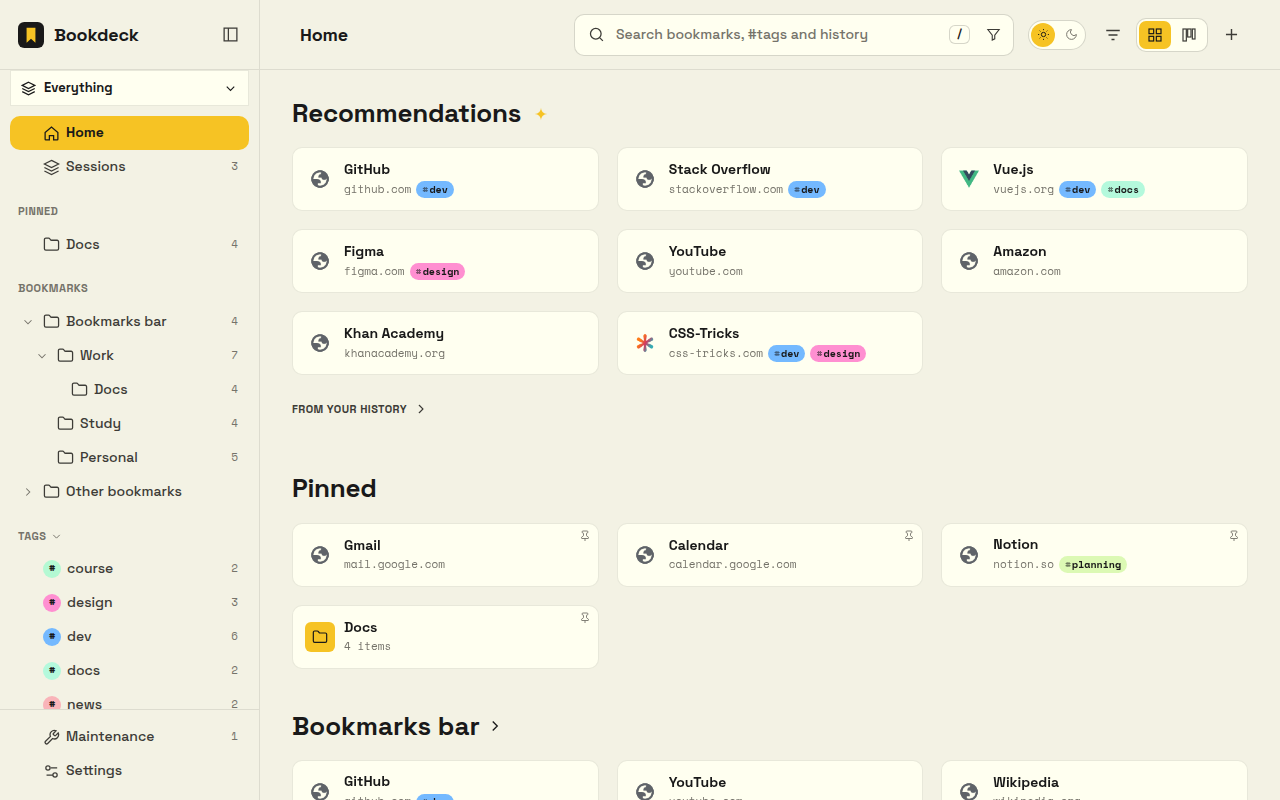
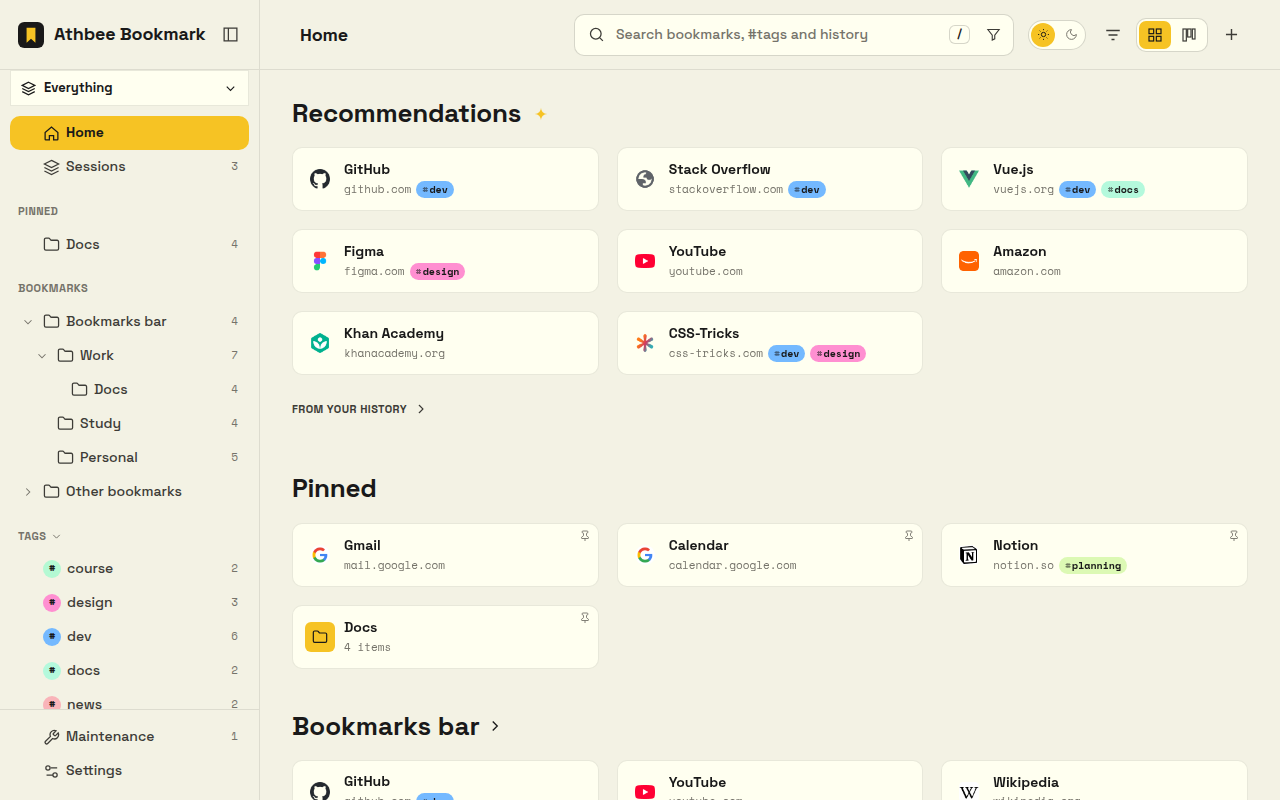
Rename to Athbee Bookmark and link to the source code
New name across all pages, fresh screenshots, privacy policy synced with
the extension (ExtPay content script, contact email), a source-code link
in the footer, and the logo wrapping cleanly on phones.

Claude-Session: https://claude.ai/code/session_01LuE7BvKGd75Ws2D3ZHVvKB

diff --git a/privacy.html b/privacy.html
@@ -3,14 +3,14 @@
 <head>
 <meta charset="utf-8">
 <meta name="viewport" content="width=device-width, initial-scale=1">
-<title>Bookdeck – Privacy policy</title>
+<title>Athbee Bookmark – Privacy policy</title>
 <link rel="icon" href="img/icon-128.png">
 <link rel="stylesheet" href="style.css">
 <script src="lang.js"></script>
 </head>
 <body>
 <header class="wrap top">
-  <a class="brand" href="./"><img src="img/icon-128.png" alt="">Bookdeck</a>
+  <a class="brand" href="./"><img src="img/icon-128.png" alt="">Athbee Bookmark</a>
   <nav class="nav">
     <a href="./#pricing"><span lang="en">Pricing</span><span lang="pt">Preços</span></a>
     <span class="lang"><button data-set-lang="en">EN</button><button data-set-lang="pt">PT</button></span>
@@ -18,33 +18,33 @@
 </header>
 <main class="wrap">
 <article class="doc" lang="en">
-<h1>Bookdeck – Privacy Policy</h1>
+<h1>Athbee Bookmark – Privacy Policy</h1>
 <p><em>Last updated: November 12, 2026</em></p>
-<p><strong>Short version: Bookdeck does not collect, send or sell your bookmarks, history or any other browsing data. They stay in your browser. The only thing Bookdeck checks online is whether you have a Bookdeck Pro license.</strong></p>
-<h2>What Bookdeck accesses</h2>
+<p><strong>Short version: Athbee Bookmark does not collect, send or sell your bookmarks, history or any other browsing data. They stay in your browser. The only thing Athbee Bookmark checks online is whether you have a Athbee Bookmark Pro license.</strong></p>
+<h2>What Athbee Bookmark accesses</h2>
 <p>To work, the extension reads and changes data <strong>inside your browser only</strong>:</p>
 <ul>
 <li><strong>Bookmarks</strong>: to show, search, organize, move and delete them.</li>
-<li><strong>Browsing history</strong>: to suggest the bookmarks and pages you use most, include history in search results, and find bookmarks you haven&#x27;t opened in a long time. Bookdeck keeps the date of the last visit of each <em>bookmarked</em> page so this keeps working beyond the browser&#x27;s own history window. It does not keep any other history.</li>
+<li><strong>Browsing history</strong>: to suggest the bookmarks and pages you use most, include history in search results, and find bookmarks you haven&#x27;t opened in a long time. Athbee Bookmark keeps the date of the last visit of each <em>bookmarked</em> page so this keeps working beyond the browser&#x27;s own history window. It does not keep any other history.</li>
 <li><strong>Open tabs and tab groups</strong>: only when you open bookmarks, save the current page from the toolbar button, or save and reopen a session.</li>
-<li><strong>Web search</strong>: when you choose “Search the web” in the search box, the text you typed is sent to your browser&#x27;s default search engine, just like a regular search. Bookdeck doesn&#x27;t send it anywhere else.</li>
-<li><strong>Website access (optional)</strong>: only if you start a broken-link check and allow it. Bookdeck then makes one request to each bookmarked address to see whether it still works. Requests are sent without cookies, and only the HTTP status and final address are read. Nothing is sent to anyone other than the sites you bookmarked.</li>
+<li><strong>Web search</strong>: when you choose “Search the web” in the search box, the text you typed is sent to your browser&#x27;s default search engine, just like a regular search. Athbee Bookmark doesn&#x27;t send it anywhere else.</li>
+<li><strong>Website access (optional)</strong>: only if you start a broken-link check and allow it. Athbee Bookmark then makes one request to each bookmarked address to see whether it still works. Requests are sent without cookies, and only the HTTP status and final address are read. Nothing is sent to anyone other than the sites you bookmarked.</li>
 </ul>
-<h2>Bookdeck Pro (paid plan)</h2>
-<p>Bookdeck is free, with an optional one-time payment (Bookdeck Pro) that unlocks extra features. Payments and licenses are handled by <strong>ExtensionPay</strong> (extensionpay.com), which processes payments through <strong>Stripe</strong>.</p>
+<h2>Athbee Bookmark Pro (paid plan)</h2>
+<p>Athbee Bookmark is free, with an optional one-time payment (Athbee Bookmark Pro) that unlocks extra features. Payments and licenses are handled by <strong>ExtensionPay</strong> (extensionpay.com), which processes payments through <strong>Stripe</strong>.</p>
 <ul>
-<li><strong>When you pay</strong>, you enter your email and payment details on ExtensionPay&#x27;s and Stripe&#x27;s own pages. Bookdeck never sees or stores your card details.</li>
+<li><strong>When you pay</strong>, you enter your email and payment details on ExtensionPay&#x27;s and Stripe&#x27;s own pages. Athbee Bookmark never sees or stores your card details.</li>
 <li><strong>Nothing is sent before you open the payment or restore page.</strong> At that moment ExtensionPay creates a random identifier for your installation, kept in your browser&#x27;s sync storage. From then on the extension asks extensionpay.com, at most a few times a day, whether this identifier has paid; the reply only says yes or no. If you buy Pro, ExtensionPay links the identifier to the email you paid with, so you can restore Pro on another computer.</li>
 <li><strong>On extensionpay.com pages only</strong>, a small script from the extension tells it when a payment has just gone through. It doesn&#x27;t run on any other site.</li>
 <li><strong>Nothing else is sent</strong>: no bookmarks, history, tags, sessions, settings or pages you visit.</li>
 </ul>
 <p>ExtensionPay&#x27;s privacy policy: <a href="https://extensionpay.com/privacy">https://extensionpay.com/privacy</a>. Stripe&#x27;s: <a href="https://stripe.com/privacy">https://stripe.com/privacy</a>.</p>
 <h2>Where your data is stored</h2>
-<p>Settings, tags, pinned and hidden items, workspaces, sessions, last-visit dates and your Pro license status are saved in the browser&#x27;s local extension storage on your computer. Bookdeck has no server of its own.</p>
-<p><strong>Sync (Pro, off by default)</strong>: if you turn on “Sync across computers”, your tags, pinned and hidden items, tag colors, workspaces, sessions and settings are stored in the browser&#x27;s own sync storage, which travels with <strong>your Google account</strong> (or your browser&#x27;s sync account) like the rest of your browser data. They identify bookmarks by their address. Bookdeck has no access to that account and no copy of this data.</p>
-<p><strong>Automatic backups (Pro, off by default)</strong>: Bookdeck saves a backup file to the <code>Bookdeck</code> folder in your Downloads, daily or weekly, and deletes the oldest ones beyond the number you chose. The files never leave your computer.</p>
+<p>Settings, tags, pinned and hidden items, workspaces, sessions, last-visit dates and your Pro license status are saved in the browser&#x27;s local extension storage on your computer. Athbee Bookmark has no server of its own.</p>
+<p><strong>Sync (Pro, off by default)</strong>: if you turn on “Sync across computers”, your tags, pinned and hidden items, tag colors, workspaces, sessions and settings are stored in the browser&#x27;s own sync storage, which travels with <strong>your Google account</strong> (or your browser&#x27;s sync account) like the rest of your browser data. They identify bookmarks by their address. Athbee Bookmark has no access to that account and no copy of this data.</p>
+<p><strong>Automatic backups (Pro, off by default)</strong>: Athbee Bookmark saves a backup file to the <code>Athbee Bookmark</code> folder in your Downloads, daily or weekly, and deletes the oldest ones beyond the number you chose. The files never leave your computer.</p>
 <p>When you export a backup, a <code>.json</code> file is saved where you choose. It contains your bookmarks, tags, sessions, settings and last-visit dates; keep it somewhere safe.</p>
-<h2>What Bookdeck does not do</h2>
+<h2>What Athbee Bookmark does not do</h2>
 <ul>
 <li>No analytics, tracking or advertising.</li>
 <li>No data is sold. Nothing is shared with third parties except what the payment provider needs to process a Pro purchase and check the license, as described above.</li>
@@ -58,33 +58,33 @@
 <p>Questions: <a href="mailto:eduardorosa.drd@gmail.com">eduardorosa.drd@gmail.com</a>.</p>
 </article>
 <article class="doc" lang="pt">
-<h1>Bookdeck – Política de Privacidade</h1>
+<h1>Athbee Bookmark – Política de Privacidade</h1>
 <p><em>Atualizada em 12 de novembro de 2026</em></p>
-<p><strong>Resumo: o Bookdeck não coleta, não envia e não vende seus favoritos, seu histórico nem nenhum outro dado de navegação. Eles ficam no seu navegador. A única coisa que o Bookdeck consulta pela internet é se você tem uma licença do Bookdeck Pro.</strong></p>
-<h2>O que o Bookdeck acessa</h2>
+<p><strong>Resumo: o Athbee Bookmark não coleta, não envia e não vende seus favoritos, seu histórico nem nenhum outro dado de navegação. Eles ficam no seu navegador. A única coisa que o Athbee Bookmark consulta pela internet é se você tem uma licença do Athbee Bookmark Pro.</strong></p>
+<h2>O que o Athbee Bookmark acessa</h2>
 <p>Para funcionar, a extensão lê e altera dados <strong>somente dentro do seu navegador</strong>:</p>
 <ul>
 <li><strong>Favoritos</strong>: para mostrar, buscar, organizar, mover e excluir.</li>
-<li><strong>Histórico</strong>: para sugerir os favoritos e páginas que você mais usa, incluir o histórico na busca e encontrar favoritos que você não abre há muito tempo. O Bookdeck guarda a data da última visita de cada página <em>que está nos favoritos</em>, para isso continuar funcionando além do período que o navegador guarda. Nenhum outro histórico é guardado.</li>
+<li><strong>Histórico</strong>: para sugerir os favoritos e páginas que você mais usa, incluir o histórico na busca e encontrar favoritos que você não abre há muito tempo. O Athbee Bookmark guarda a data da última visita de cada página <em>que está nos favoritos</em>, para isso continuar funcionando além do período que o navegador guarda. Nenhum outro histórico é guardado.</li>
 <li><strong>Abas e grupos de abas</strong>: só quando você abre favoritos, salva a página atual pelo botão da barra ou salva e reabre uma sessão.</li>
-<li><strong>Pesquisa na web</strong>: quando você escolhe “Pesquisar na web” na caixa de busca, o texto digitado vai para o mecanismo de busca padrão do seu navegador, como numa busca normal. O Bookdeck não o envia para nenhum outro lugar.</li>
-<li><strong>Acesso a sites (opcional)</strong>: só se você iniciar uma verificação de links quebrados e permitir. O Bookdeck faz uma requisição a cada endereço salvo para ver se ainda funciona, sem enviar cookies, lendo apenas o código HTTP e o endereço final. Nada é enviado a ninguém além dos próprios sites que você salvou.</li>
+<li><strong>Pesquisa na web</strong>: quando você escolhe “Pesquisar na web” na caixa de busca, o texto digitado vai para o mecanismo de busca padrão do seu navegador, como numa busca normal. O Athbee Bookmark não o envia para nenhum outro lugar.</li>
+<li><strong>Acesso a sites (opcional)</strong>: só se você iniciar uma verificação de links quebrados e permitir. O Athbee Bookmark faz uma requisição a cada endereço salvo para ver se ainda funciona, sem enviar cookies, lendo apenas o código HTTP e o endereço final. Nada é enviado a ninguém além dos próprios sites que você salvou.</li>
 </ul>
-<h2>Bookdeck Pro (plano pago)</h2>
-<p>O Bookdeck é grátis, com um pagamento único opcional (Bookdeck Pro) que libera recursos extras. Pagamentos e licenças ficam a cargo do <strong>ExtensionPay</strong> (extensionpay.com), que processa os pagamentos pelo <strong>Stripe</strong>.</p>
+<h2>Athbee Bookmark Pro (plano pago)</h2>
+<p>O Athbee Bookmark é grátis, com um pagamento único opcional (Athbee Bookmark Pro) que libera recursos extras. Pagamentos e licenças ficam a cargo do <strong>ExtensionPay</strong> (extensionpay.com), que processa os pagamentos pelo <strong>Stripe</strong>.</p>
 <ul>
-<li><strong>Ao pagar</strong>, você informa seu e-mail e os dados de pagamento nas páginas do próprio ExtensionPay e do Stripe. O Bookdeck nunca vê nem guarda os dados do seu cartão.</li>
+<li><strong>Ao pagar</strong>, você informa seu e-mail e os dados de pagamento nas páginas do próprio ExtensionPay e do Stripe. O Athbee Bookmark nunca vê nem guarda os dados do seu cartão.</li>
 <li><strong>Nada é enviado antes de você abrir a página de pagamento ou de recuperação.</strong> Nesse momento o ExtensionPay cria um identificador aleatório para a sua instalação, guardado no armazenamento de sincronização do navegador. A partir daí a extensão pergunta ao extensionpay.com, no máximo algumas vezes por dia, se esse identificador pagou; a resposta diz apenas sim ou não. Se você comprar o Pro, o ExtensionPay associa o identificador ao e-mail usado no pagamento, para você poder recuperar o Pro em outro computador.</li>
 <li><strong>Só nas páginas do extensionpay.com</strong>, um pequeno script da extensão avisa quando um pagamento acabou de ser concluído. Ele não roda em nenhum outro site.</li>
 <li><strong>Nada mais é enviado</strong>: nenhum favorito, histórico, tag, sessão, configuração ou página visitada.</li>
 </ul>
 <p>Política de privacidade do ExtensionPay: <a href="https://extensionpay.com/privacy">https://extensionpay.com/privacy</a>. Do Stripe: <a href="https://stripe.com/privacy">https://stripe.com/privacy</a>.</p>
 <h2>Onde seus dados ficam</h2>
-<p>Configurações, tags, fixados, ocultos, workspaces, sessões, datas de visita e o status da sua licença Pro ficam no armazenamento local da extensão, no seu computador. O Bookdeck não tem servidor próprio.</p>
-<p><strong>Sincronização (Pro, desligada por padrão)</strong>: se você ligar “Sincronizar entre computadores”, suas tags, fixados, ocultos, cores de tags, workspaces, sessões e configurações vão para o armazenamento de sincronização do próprio navegador, que acompanha <strong>a sua conta Google</strong> (ou a conta de sincronização do seu navegador), como o restante dos dados do navegador. Os favoritos são identificados pelo endereço. O Bookdeck não tem acesso a essa conta nem cópia desses dados.</p>
-<p><strong>Backup automático (Pro, desligado por padrão)</strong>: o Bookdeck salva um arquivo de backup na pasta <code>Bookdeck</code> dos seus Downloads, todo dia ou toda semana, e apaga os mais antigos além da quantidade escolhida. Os arquivos nunca saem do seu computador.</p>
+<p>Configurações, tags, fixados, ocultos, workspaces, sessões, datas de visita e o status da sua licença Pro ficam no armazenamento local da extensão, no seu computador. O Athbee Bookmark não tem servidor próprio.</p>
+<p><strong>Sincronização (Pro, desligada por padrão)</strong>: se você ligar “Sincronizar entre computadores”, suas tags, fixados, ocultos, cores de tags, workspaces, sessões e configurações vão para o armazenamento de sincronização do próprio navegador, que acompanha <strong>a sua conta Google</strong> (ou a conta de sincronização do seu navegador), como o restante dos dados do navegador. Os favoritos são identificados pelo endereço. O Athbee Bookmark não tem acesso a essa conta nem cópia desses dados.</p>
+<p><strong>Backup automático (Pro, desligado por padrão)</strong>: o Athbee Bookmark salva um arquivo de backup na pasta <code>Athbee Bookmark</code> dos seus Downloads, todo dia ou toda semana, e apaga os mais antigos além da quantidade escolhida. Os arquivos nunca saem do seu computador.</p>
 <p>Ao exportar um backup, um arquivo <code>.json</code> é salvo onde você escolher. Ele contém favoritos, tags, sessões, configurações e datas de visita; guarde-o em lugar seguro.</p>
-<h2>O que o Bookdeck não faz</h2>
+<h2>O que o Athbee Bookmark não faz</h2>
 <ul>
 <li>Nada de estatísticas de uso, rastreamento ou anúncios.</li>
 <li>Nenhum dado é vendido. Nada é compartilhado com terceiros além do que o processador de pagamento precisa para concluir uma compra do Pro e verificar a licença, como descrito acima.</li>
@@ -100,10 +100,11 @@
 </main>
 <footer>
   <div class="wrap">
-    <span>© 2026 Bookdeck</span>
+    <span>© 2026 Athbee Bookmark</span>
     <nav>
-      <a href="./">Bookdeck</a>
+      <a href="./">Athbee Bookmark</a>
       <a href="terms.html"><span lang="en">Terms &amp; refunds</span><span lang="pt">Termos e reembolso</span></a>
+      <a href="https://github.com/erdodrddev-stack/athbee-bookmark-extension"><span lang="en">Source code</span><span lang="pt">Código-fonte</span></a>
       <a href="mailto:eduardorosa.drd@gmail.com">eduardorosa.drd@gmail.com</a>
     </nav>
   </div>

diff --git a/terms.html b/terms.html
@@ -3,14 +3,14 @@
 <head>
 <meta charset="utf-8">
 <meta name="viewport" content="width=device-width, initial-scale=1">
-<title>Bookdeck – Terms and refunds</title>
+<title>Athbee Bookmark – Terms and refunds</title>
 <link rel="icon" href="img/icon-128.png">
 <link rel="stylesheet" href="style.css">
 <script src="lang.js"></script>
 </head>
 <body>
 <header class="wrap top">
-  <a class="brand" href="./"><img src="img/icon-128.png" alt="">Bookdeck</a>
+  <a class="brand" href="./"><img src="img/icon-128.png" alt="">Athbee Bookmark</a>
   <nav class="nav">
     <a href="./#pricing"><span lang="en">Pricing</span><span lang="pt">Preços</span></a>
     <span class="lang"><button data-set-lang="en">EN</button><button data-set-lang="pt">PT</button></span>
@@ -23,25 +23,25 @@
     <p><em>Last updated: November 12, 2026</em></p>
 
     <h2>Who we are</h2>
-    <p>Bookdeck is a browser extension made and sold by an independent developer based in Brazil. Contact: <a href="mailto:eduardorosa.drd@gmail.com">eduardorosa.drd@gmail.com</a>.</p>
+    <p>Athbee Bookmark is a browser extension made and sold by an independent developer based in Brazil. Contact: <a href="mailto:eduardorosa.drd@gmail.com">eduardorosa.drd@gmail.com</a>.</p>
 
     <h2>The product</h2>
-    <p>Bookdeck is free to install and use. <strong>Bookdeck Pro</strong> is an optional upgrade sold inside the extension for a <strong>one-time payment of US$ 12</strong> (plus any taxes required where you live). It unlocks the Pro features listed on the <a href="./#pricing">pricing section</a> for the life of the product, with no subscription and no renewals.</p>
+    <p>Athbee Bookmark is free to install and use. <strong>Athbee Bookmark Pro</strong> is an optional upgrade sold inside the extension for a <strong>one-time payment of US$ 12</strong> (plus any taxes required where you live). It unlocks the Pro features listed on the <a href="./#pricing">pricing section</a> for the life of the product, with no subscription and no renewals.</p>
 
     <h2>Payment</h2>
     <p>Payments are processed by Stripe through ExtensionPay (extensionpay.com). We never see or store your card details. Your purchase is linked to the email you pay with, which lets you restore Pro on another computer or after reinstalling, from the “Restore Pro by email” link in the extension.</p>
 
     <h2 id="refunds">Refunds</h2>
-    <p>If Bookdeck Pro isn't right for you, email <a href="mailto:eduardorosa.drd@gmail.com">eduardorosa.drd@gmail.com</a> within <strong>14 days of purchase</strong> with the email you paid with, and you'll get a <strong>full refund, no questions asked</strong>. Refunds go back to the original payment method through Stripe, usually within 5–10 business days depending on your bank. Once refunded, Pro features turn off; the free features and all your data stay as they are.</p>
+    <p>If Athbee Bookmark Pro isn't right for you, email <a href="mailto:eduardorosa.drd@gmail.com">eduardorosa.drd@gmail.com</a> within <strong>14 days of purchase</strong> with the email you paid with, and you'll get a <strong>full refund, no questions asked</strong>. Refunds go back to the original payment method through Stripe, usually within 5–10 business days depending on your bank. Once refunded, Pro features turn off; the free features and all your data stay as they are.</p>
 
     <h2>Use of the extension</h2>
-    <p>You may use Bookdeck on any computer and browser profile you own. Please don't resell Pro licenses or try to get around the purchase check.</p>
+    <p>You may use Athbee Bookmark on any computer and browser profile you own. Please don't resell Pro licenses or try to get around the purchase check.</p>
 
     <h2>Your data</h2>
     <p>Your bookmarks, history, tags and sessions stay in your browser. See the <a href="privacy.html">privacy policy</a> for exactly what is accessed and when anything leaves your computer.</p>
 
     <h2>Availability and changes</h2>
-    <p>We work to keep Bookdeck working on current versions of Chrome, Brave and Edge, but it is provided “as is”, without warranties. Keep backups of anything important (Bookdeck can make them for you). These terms may be updated; the new version will be published on this page with a new date.</p>
+    <p>We work to keep Athbee Bookmark working on current versions of Chrome, Brave and Edge, but it is provided “as is”, without warranties. Keep backups of anything important (Athbee Bookmark can make them for you). These terms may be updated; the new version will be published on this page with a new date.</p>
 
     <h2>Law</h2>
     <p>These terms are governed by the laws of Brazil, without limiting any consumer rights you have where you live.</p>
@@ -52,25 +52,25 @@
     <p><em>Atualizados em 12 de novembro de 2026</em></p>
 
     <h2>Quem somos</h2>
-    <p>O Bookdeck é uma extensão de navegador feita e vendida por um desenvolvedor independente no Brasil. Contato: <a href="mailto:eduardorosa.drd@gmail.com">eduardorosa.drd@gmail.com</a>.</p>
+    <p>O Athbee Bookmark é uma extensão de navegador feita e vendida por um desenvolvedor independente no Brasil. Contato: <a href="mailto:eduardorosa.drd@gmail.com">eduardorosa.drd@gmail.com</a>.</p>
 
     <h2>O produto</h2>
-    <p>O Bookdeck é grátis para instalar e usar. O <strong>Bookdeck Pro</strong> é uma melhoria opcional vendida dentro da extensão por um <strong>pagamento único de US$ 12</strong> (mais impostos exigidos onde você mora). Ele libera os recursos Pro listados na <a href="./#pricing">seção de preços</a> por toda a vida do produto, sem assinatura e sem renovação.</p>
+    <p>O Athbee Bookmark é grátis para instalar e usar. O <strong>Athbee Bookmark Pro</strong> é uma melhoria opcional vendida dentro da extensão por um <strong>pagamento único de US$ 12</strong> (mais impostos exigidos onde você mora). Ele libera os recursos Pro listados na <a href="./#pricing">seção de preços</a> por toda a vida do produto, sem assinatura e sem renovação.</p>
 
     <h2>Pagamento</h2>
     <p>Os pagamentos são processados pelo Stripe, via ExtensionPay (extensionpay.com). Nunca vemos nem guardamos os dados do seu cartão. A compra fica associada ao e-mail usado no pagamento, o que permite recuperar o Pro em outro computador ou depois de reinstalar, pelo link “Recuperar o Pro pelo e-mail” na extensão.</p>
 
     <h2 id="refunds-pt">Reembolso</h2>
-    <p>Se o Bookdeck Pro não for o que você esperava, escreva para <a href="mailto:eduardorosa.drd@gmail.com">eduardorosa.drd@gmail.com</a> em até <strong>14 dias da compra</strong>, informando o e-mail usado no pagamento, e você recebe o <strong>reembolso integral, sem perguntas</strong>. O valor volta para a forma de pagamento original pelo Stripe, normalmente em 5 a 10 dias úteis, conforme o banco. Depois do reembolso, os recursos Pro são desligados; os recursos grátis e todos os seus dados continuam como estão.</p>
+    <p>Se o Athbee Bookmark Pro não for o que você esperava, escreva para <a href="mailto:eduardorosa.drd@gmail.com">eduardorosa.drd@gmail.com</a> em até <strong>14 dias da compra</strong>, informando o e-mail usado no pagamento, e você recebe o <strong>reembolso integral, sem perguntas</strong>. O valor volta para a forma de pagamento original pelo Stripe, normalmente em 5 a 10 dias úteis, conforme o banco. Depois do reembolso, os recursos Pro são desligados; os recursos grátis e todos os seus dados continuam como estão.</p>
 
     <h2>Uso da extensão</h2>
-    <p>Você pode usar o Bookdeck em qualquer computador e perfil de navegador seu. Não revenda licenças Pro nem tente burlar a verificação da compra.</p>
+    <p>Você pode usar o Athbee Bookmark em qualquer computador e perfil de navegador seu. Não revenda licenças Pro nem tente burlar a verificação da compra.</p>
 
     <h2>Seus dados</h2>
     <p>Seus favoritos, histórico, tags e sessões ficam no seu navegador. Veja a <a href="privacy.html">política de privacidade</a> para saber exatamente o que é acessado e quando algo sai do seu computador.</p>
 
     <h2>Disponibilidade e mudanças</h2>
-    <p>Trabalhamos para manter o Bookdeck funcionando nas versões atuais do Chrome, Brave e Edge, mas ele é fornecido “no estado em que se encontra”, sem garantias. Mantenha backups do que for importante (o Bookdeck pode fazê-los por você). Estes termos podem ser atualizados; a nova versão será publicada nesta página, com nova data.</p>
+    <p>Trabalhamos para manter o Athbee Bookmark funcionando nas versões atuais do Chrome, Brave e Edge, mas ele é fornecido “no estado em que se encontra”, sem garantias. Mantenha backups do que for importante (o Athbee Bookmark pode fazê-los por você). Estes termos podem ser atualizados; a nova versão será publicada nesta página, com nova data.</p>
 
     <h2>Lei aplicável</h2>
     <p>Estes termos seguem as leis do Brasil, sem limitar os direitos de consumidor que você tenha onde mora, incluindo os do Código de Defesa do Consumidor.</p>
@@ -79,10 +79,11 @@
 
 <footer>
   <div class="wrap">
-    <span>© 2026 Bookdeck</span>
+    <span>© 2026 Athbee Bookmark</span>
     <nav>
-      <a href="./">Bookdeck</a>
+      <a href="./">Athbee Bookmark</a>
       <a href="privacy.html"><span lang="en">Privacy</span><span lang="pt">Privacidade</span></a>
+      <a href="https://github.com/erdodrddev-stack/athbee-bookmark-extension"><span lang="en">Source code</span><span lang="pt">Código-fonte</span></a>
       <a href="mailto:eduardorosa.drd@gmail.com">eduardorosa.drd@gmail.com</a>
     </nav>
   </div>

diff --git a/index.html b/index.html
@@ -3,15 +3,15 @@
 <head>
 <meta charset="utf-8">
 <meta name="viewport" content="width=device-width, initial-scale=1">
-<title>Bookdeck – your bookmarks, organized</title>
-<meta name="description" content="Bookdeck is a browser extension that turns the new tab into a dashboard for your bookmarks: tags, workspaces, tab sessions, broken links and duplicates. Free, with an optional US$ 12 one-time Pro upgrade.">
+<title>Athbee Bookmark – your bookmarks, organized</title>
+<meta name="description" content="Athbee Bookmark is a browser extension that turns the new tab into a dashboard for your bookmarks: tags, workspaces, tab sessions, broken links and duplicates. Free, with an optional US$ 12 one-time Pro upgrade.">
 <link rel="icon" href="img/icon-128.png">
 <link rel="stylesheet" href="style.css">
 <script src="lang.js"></script>
 </head>
 <body>
 <header class="wrap top">
-  <a class="brand" href="./"><img src="img/icon-128.png" alt="">Bookdeck</a>
+  <a class="brand" href="./"><img src="img/icon-128.png" alt="">Athbee Bookmark</a>
   <nav class="nav">
     <a class="hide-sm" href="#features"><span lang="en">Features</span><span lang="pt">Recursos</span></a>
     <a href="#pricing"><span lang="en">Pricing</span><span lang="pt">Preços</span></a>
@@ -25,14 +25,14 @@
     <div>
       <h1 lang="en">Your bookmarks, organized.</h1>
       <h1 lang="pt">Seus favoritos, organizados.</h1>
-      <p class="lead" lang="en">Bookdeck is a browser extension for Chrome, Brave and Edge that turns every new tab into a dashboard for your bookmarks. Nothing you save ever leaves your browser.</p>
-      <p class="lead" lang="pt">O Bookdeck é uma extensão para Chrome, Brave e Edge que transforma cada nova guia num painel dos seus favoritos. Nada do que você salva sai do navegador.</p>
+      <p class="lead" lang="en">Athbee Bookmark is a browser extension for Chrome, Brave and Edge that turns every new tab into a dashboard for your bookmarks. Nothing you save ever leaves your browser.</p>
+      <p class="lead" lang="pt">O Athbee Bookmark é uma extensão para Chrome, Brave e Edge que transforma cada nova guia num painel dos seus favoritos. Nada do que você salva sai do navegador.</p>
       <div class="cta">
         <a class="btn" aria-disabled="true"><span lang="en">Chrome Web Store: coming soon</span><span lang="pt">Chrome Web Store: em breve</span></a>
         <a class="btn ghost" href="#pricing"><span lang="en">Free · Pro US$ 12 once</span><span lang="pt">Grátis · Pro US$ 12 uma vez</span></a>
       </div>
     </div>
-    <img class="shot" src="img/home.png" width="1280" height="800" alt="Bookdeck new tab with suggestions, pinned bookmarks and folders">
+    <img class="shot" src="img/home.png" width="1280" height="800" alt="Athbee Bookmark new tab with suggestions, pinned bookmarks and folders">
   </div>
 
   <section id="features">
@@ -63,8 +63,8 @@
       <img class="shot" src="img/workspaces.png" width="1280" height="800" alt="Workspaces in dark mode, columns layout">
       <div>
         <h2><span lang="en">Private by design</span><span lang="pt">Privado de verdade</span></h2>
-        <p lang="en">No account to create, no ads, no tracking. Bookmarks, history, tags and sessions stay in your browser. The only thing Bookdeck checks online is whether you bought Pro. Read the <a href="privacy.html">privacy policy</a>.</p>
-        <p lang="pt">Sem criar conta, sem anúncios, sem rastreamento. Favoritos, histórico, tags e sessões ficam no seu navegador. A única coisa que o Bookdeck consulta pela internet é se você comprou o Pro. Leia a <a href="privacy.html">política de privacidade</a>.</p>
+        <p lang="en">No account to create, no ads, no tracking. Bookmarks, history, tags and sessions stay in your browser. The only thing Athbee Bookmark checks online is whether you bought Pro. Read the <a href="privacy.html">privacy policy</a>.</p>
+        <p lang="pt">Sem criar conta, sem anúncios, sem rastreamento. Favoritos, histórico, tags e sessões ficam no seu navegador. A única coisa que o Athbee Bookmark consulta pela internet é se você comprou o Pro. Leia a <a href="privacy.html">política de privacidade</a>.</p>
       </div>
     </div>
   </section>
@@ -92,7 +92,7 @@
           </ul>
         </div>
         <div class="plan pro">
-          <h3>Bookdeck Pro</h3>
+          <h3>Athbee Bookmark Pro</h3>
           <div class="price">US$ 12<small lang="en">one-time</small><small lang="pt">pagamento único</small></div>
           <ul lang="en">
             <li>Sync tags, workspaces, sessions and settings across computers</li>
@@ -121,8 +121,8 @@
     <div class="wrap split">
       <div>
         <h2><span lang="en">Contact</span><span lang="pt">Contato</span></h2>
-        <p lang="en">Questions, support or refunds: <a href="mailto:eduardorosa.drd@gmail.com">eduardorosa.drd@gmail.com</a>. Bookdeck is made by an independent developer in Brazil; replies usually within 2 business days.</p>
-        <p lang="pt">Dúvidas, suporte ou reembolsos: <a href="mailto:eduardorosa.drd@gmail.com">eduardorosa.drd@gmail.com</a>. O Bookdeck é feito por um desenvolvedor independente no Brasil; respostas geralmente em até 2 dias úteis.</p>
+        <p lang="en">Questions, support or refunds: <a href="mailto:eduardorosa.drd@gmail.com">eduardorosa.drd@gmail.com</a>. Athbee Bookmark is made by an independent developer in Brazil; replies usually within 2 business days.</p>
+        <p lang="pt">Dúvidas, suporte ou reembolsos: <a href="mailto:eduardorosa.drd@gmail.com">eduardorosa.drd@gmail.com</a>. O Athbee Bookmark é feito por um desenvolvedor independente no Brasil; respostas geralmente em até 2 dias úteis.</p>
       </div>
       <img class="shot" src="img/maintenance.png" width="1280" height="800" alt="Broken-link check in the maintenance panel">
     </div>
@@ -131,10 +131,11 @@
 
 <footer>
   <div class="wrap">
-    <span>© 2026 Bookdeck</span>
+    <span>© 2026 Athbee Bookmark</span>
     <nav>
       <a href="terms.html"><span lang="en">Terms &amp; refunds</span><span lang="pt">Termos e reembolso</span></a>
       <a href="privacy.html"><span lang="en">Privacy</span><span lang="pt">Privacidade</span></a>
+      <a href="https://github.com/erdodrddev-stack/athbee-bookmark-extension"><span lang="en">Source code</span><span lang="pt">Código-fonte</span></a>
       <a href="mailto:eduardorosa.drd@gmail.com">eduardorosa.drd@gmail.com</a>
     </nav>
   </div>

diff --git a/style.css b/style.css
@@ -31,7 +31,7 @@ html[data-lang='en'] [lang='pt'], html[data-lang='pt'] [lang='en'] { display: no
 
 /* header */
 .top { display: flex; align-items: center; justify-content: space-between; gap: 16px; padding: 22px 0; }
-.brand { display: flex; align-items: center; gap: 10px; font-family: var(--display); font-size: 20px; text-transform: uppercase; text-decoration: none; }
+.brand { display: flex; align-items: center; gap: 10px; font-family: var(--display); font-size: 20px; line-height: 1.05; text-transform: uppercase; text-decoration: none; }
 .brand img { width: 32px; height: 32px; }
 .nav { display: flex; align-items: center; gap: 18px; font-weight: 700; font-size: 15px; }
 .nav a { text-decoration: none; }

diff --git a/README.md b/README.md
@@ -1,6 +1,6 @@
-# Bookdeck – site
+# Athbee Bookmark – site
 
-Static site for the Bookdeck browser extension: product, pricing, terms and refund
+Static site for the Athbee Bookmark browser extension: product, pricing, terms and refund
 policy, and privacy policy (English and Portuguese). Published with GitHub Pages from
 the repository root. `privacy.html` is generated from `docs/privacy-policy.md` in the
 extension's repository.
